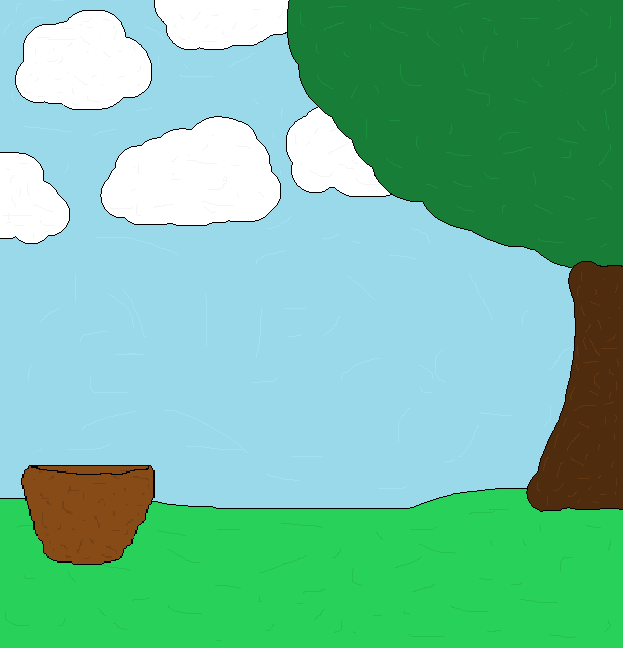
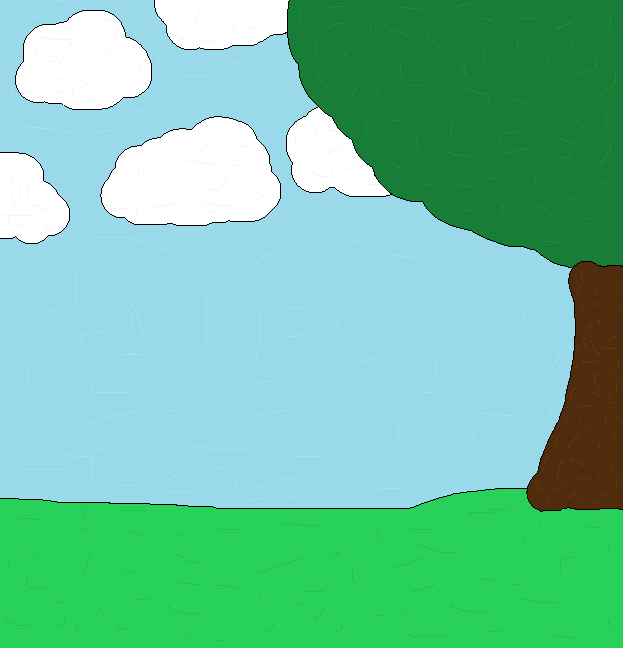
Created the WaterScene

Changed region(s): [[0.0305, 0.7099, 0.2745, 0.8951]]

diff --git a/src/scenes/WaterScene.js b/src/scenes/WaterScene.js
@@ -1,0 +1,133 @@
+import Phaser from 'phaser';
+import outsideImg from '../assets/images/sungame/outside-bg.png'
+import waterBucketImg from '../assets/images/water-bucket.png'
+import aliveFlowerImg from '../assets/images/sungame/alive flower.png'
+import Water1Img from '../assets/images/Water.png'
+
+export default class WaterScene extends Phaser.Scene {
+    constructor() {
+        super({ key: 'WaterScene' });
+    }
+
+    preload() {
+        // load images
+        this.load.image('WaterBackground', outsideImg)
+        this.load.image('waterBucket', waterBucketImg)
+        this.load.image('sunAliveFlower', aliveFlowerImg)
+        this.load.image('waterWater1', Water1Img)
+    }
+
+    create() {
+        // add background image, centered
+        this.add.image(this.scale.width / 2, this.scale.height / 2, 'WaterBackground')
+            .setOrigin(0.5)
+            .setDisplaySize(this.scale.width, this.scale.height);
+
+        this.add.image(330, 430, 'sunAliveFlower')
+            .setScale(0.5);
+            
+        const items = [this.watercan = this.add.image(120, 500, 'waterBucket').setOrigin(0.5, 0.5).setScale(1.25).setInteractive({ cursor: 'pointer', draggable: true })]
+        const ogPositions = items.map(item => ({ x: item.x, y: item.y }))
+
+        // enable dragging for all
+        items.forEach(item => this.input.setDraggable(item))
+
+        this.input.on('dragstart', (pointer, gameObject) => {
+            gameObject.setAlpha(0.75)
+        })
+
+        this.input.on('drag', (pointer, gameObject, dragX, dragY) => {
+            gameObject.x = dragX,
+            gameObject.y = dragY
+        })
+
+        this.input.on('dragend', (pointer, gameObject) => {
+            gameObject.setAlpha(1)
+            const index = items.indexOf(gameObject)
+            gameObject.x = ogPositions[index].x
+            gameObject.y = ogPositions[index].y
+        })
+        
+
+
+        // Add all the leaves to an array
+        const waterDroplets = [
+            this.add.image(Phaser.Math.Between(0, this.scale.width), -50, 'waterWater1').setScale(0.5),
+            this.add.image(Phaser.Math.Between(0, this.scale.width), -50, 'waterWater1').setScale(0.5),
+            this.add.image(Phaser.Math.Between(0, this.scale.width), -50, 'waterWater1').setScale(0.5),
+            this.add.image(Phaser.Math.Between(0, this.scale.width), -50, 'waterWater1').setScale(0.5),
+            this.add.image(Phaser.Math.Between(0, this.scale.width), -50, 'waterWater1').setScale(0.5),
+            this.add.image(Phaser.Math.Between(0, this.scale.width), -50, 'waterWater1').setScale(0.5),
+            this.add.image(Phaser.Math.Between(0, this.scale.width), -50, 'waterWater1').setScale(0.5),
+            this.add.image(Phaser.Math.Between(0, this.scale.width), -50, 'waterWater1').setScale(0.5),
+            this.add.image(Phaser.Math.Between(0, this.scale.width), -50, 'waterWater1').setScale(0.5),
+            this.add.image(Phaser.Math.Between(0, this.scale.width), -50, 'waterWater1').setScale(0.5),
+            this.add.image(Phaser.Math.Between(0, this.scale.width), -50, 'waterWater1').setScale(0.5),
+            this.add.image(Phaser.Math.Between(0, this.scale.width), -50, 'waterWater1').setScale(0.5),
+            this.add.image(Phaser.Math.Between(0, this.scale.width), -50, 'waterWater1').setScale(0.5),
+            this.add.image(Phaser.Math.Between(0, this.scale.width), -50, 'waterWater1').setScale(0.5),
+            this.add.image(Phaser.Math.Between(0, this.scale.width), -50, 'waterWater1').setScale(0.5),
+            this.add.image(Phaser.Math.Between(0, this.scale.width), -50, 'waterWater1').setScale(0.5),
+            this.add.image(Phaser.Math.Between(0, this.scale.width), -50, 'waterWater1').setScale(0.5),
+            this.add.image(Phaser.Math.Between(0, this.scale.width), -50, 'waterWater1').setScale(0.5),
+            this.add.image(Phaser.Math.Between(0, this.scale.width), -50, 'waterWater1').setScale(0.5),
+            this.add.image(Phaser.Math.Between(0, this.scale.width), -50, 'waterWater1').setScale(0.5)
+        ];
+    
+        // Variables for the falling leaves
+        const fallDuration = 4000;
+        const intervalTime = 500;
+        const totalWater = 20;
+        let waterCount = 0;   
+        // Function to make a leaf fall
+        const makeWaterFall = () => {
+            if (waterCount >= totalWater) return; // Stop after 10 leaves
+            const selectedWater = waterDroplets[waterCount];
+    
+            if (selectedWater) {
+                this.tweens.add({
+                    targets: selectedWater,
+                    y: this.scale.height + 100,
+                    duration: fallDuration,
+                    ease: 'Power1',
+                });
+            }
+            waterCount++;
+        };
+    
+        // Trigger leaves to fall every 2 seconds
+        this.time.addEvent({
+            delay: intervalTime,
+            callback: makeWaterFall,
+            callbackScope: this,
+            loop: true,
+            repeat: totalWater - 1
+        });
+        let countNumCollected = 0;
+        // Check for collision between the water can and droplets at the same position
+        this.time.addEvent({
+            delay: 100, // Check every 100ms
+            callback: () => {
+                waterDroplets.forEach(droplet => {
+                    // Calculate the distance between the water can and the droplet
+                    const distance = Phaser.Math.Distance.Between(this.watercan.x, this.watercan.y, droplet.x, droplet.y);
+
+                    // If they are at the same position (distance is small), remove the droplet
+                    if (distance < 50) { // Adjust the threshold for the collision (50px)
+                        droplet.setAlpha(0); // Make the droplet disappear
+                        droplet.setActive(false);
+                        droplet.setVisible(false);
+                        countNumCollected++;
+                    }
+                });
+                if (countNumCollected >= 13 && waterCount === totalWater) {
+                    console.log("You have won the game! ;)");
+                } else if (countNumCollected < 13 && waterCount === totalWater) {
+                    console.log("You have lost the game :(");
+                }
+            },
+            callbackScope: this,
+            loop: true
+        });
+    }
+}
